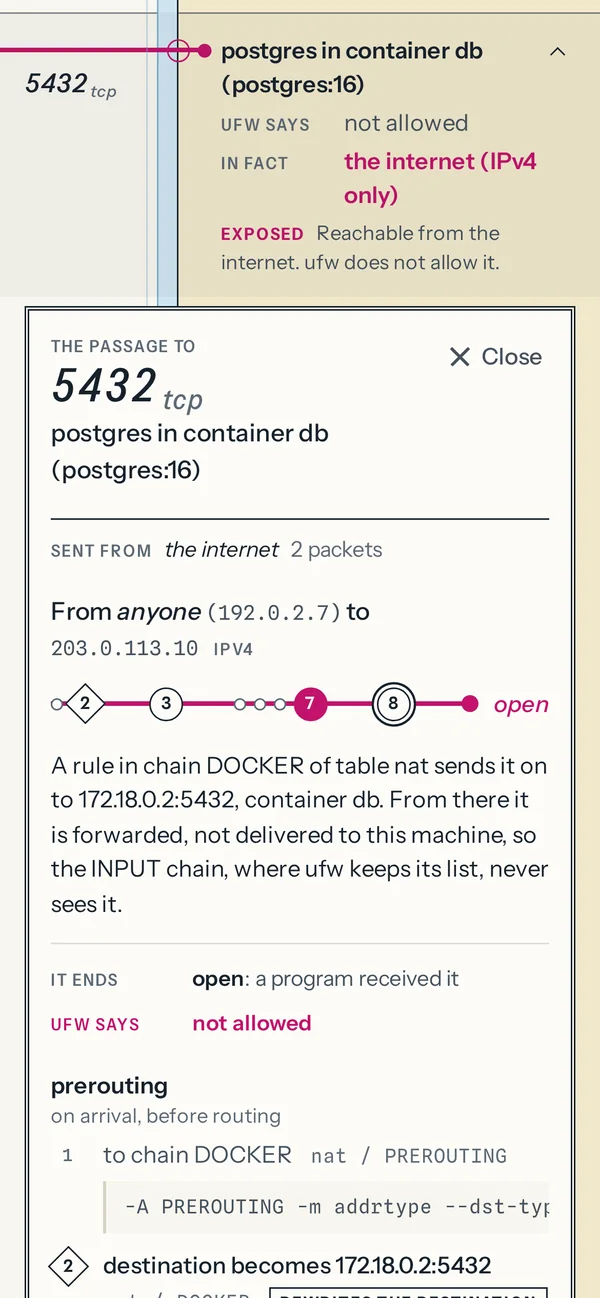
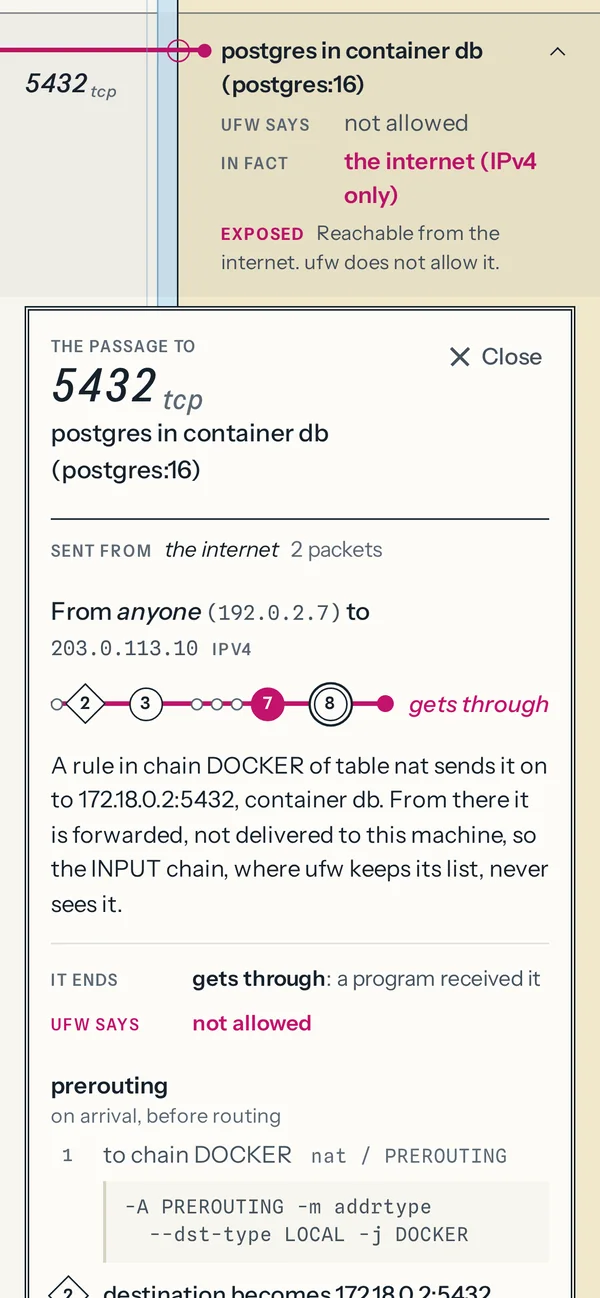
Seaward's pictures from 0.1.1
Claude-Session: https://claude.ai/code/session_01HQfW8pkzqmESaZpf3GNiQv

diff --git a/index.html b/index.html
@@ -67,7 +67,7 @@
         <a class="btn" href="https://github.com/gallowforge" rel="me">GitHub <svg class="i" viewBox="0 0 16 16" aria-hidden="true"><path d="M5 11 11 5M6 5h5v5"/></svg></a>
         <a class="btn" href="assets/Ali-Husain-CV.pdf">CV <svg class="i" viewBox="0 0 16 16" aria-hidden="true"><path d="M8 3v8M4.5 7.5 8 11l3.5-3.5M3 13.5h10"/></svg></a>
       </div>
-      <a class="live" href="https://github.com/gallowforge/ballast/releases/tag/v1.2.3"><i aria-hidden="true"></i><span>Latest release</span> Ballast 1.2.3 “every statement is read the same way”</a>
+      <a class="live" href="https://github.com/gallowforge/seaward/releases/tag/v0.1.1"><i aria-hidden="true"></i><span>Latest release</span> Seaward 0.1.1</a>
     </div>
 
     <nav class="scene" aria-label="The work, layer by layer">
@@ -279,7 +279,7 @@
         <img class="amb" src="assets/img/seaward-glow.webp?v=add169b4" alt="" decoding="async">
         <figure class="win"><img class="in-dark" loading="lazy" decoding="async" src="assets/img/seaward-d.webp?v=182743c9" width="1920" height="1440" alt="Seaward's chart of a sample shop server: seven ports can be reached from outside and ufw allows only four of them. The three container ports are drawn as lanes that cross the firewall's shoreline."><img class="in-light" loading="lazy" decoding="async" src="assets/img/seaward-d-light.webp?v=18a490bc" width="1920" height="1440" alt="Seaward's chart of a sample shop server: seven ports can be reached from outside and ufw allows only four of them. The three container ports are drawn as lanes that cross the firewall's shoreline."></figure>
         <figure class="phone"><img class="in-dark" loading="lazy" decoding="async" src="assets/img/seaward-p.webp?v=d9106410" width="600" height="1298" alt="Seaward on a phone: 7 ports can be reached from outside, ufw allows only 4 of them."><img class="in-light" loading="lazy" decoding="async" src="assets/img/seaward-p-light.webp?v=fd90267c" width="600" height="1298" alt="Seaward on a phone: 7 ports can be reached from outside, ufw allows only 4 of them."></figure>
-        <figure class="phone phone--b"><img class="in-dark" loading="lazy" decoding="async" src="assets/img/seaward-p2.webp?v=6c03ac15" width="600" height="1298" alt="The passage to port 5432 on a phone: one packet followed rule by rule to the rule that lets it through."><img class="in-light" loading="lazy" decoding="async" src="assets/img/seaward-p2-light.webp?v=66329408" width="600" height="1298" alt="The passage to port 5432 on a phone: one packet followed rule by rule to the rule that lets it through."></figure>
+        <figure class="phone phone--b"><img class="in-dark" loading="lazy" decoding="async" src="assets/img/seaward-p2.webp?v=c301c604" width="600" height="1298" alt="The passage to port 5432 on a phone: one packet followed rule by rule to the rule that lets it through."><img class="in-light" loading="lazy" decoding="async" src="assets/img/seaward-p2-light.webp?v=e23ea2a9" width="600" height="1298" alt="The passage to port 5432 on a phone: one packet followed rule by rule to the rule that lets it through."></figure>
       </div>
       <div class="room-foot" data-rise>
         <p class="room-body">A firewall's list is what was asked for; the rules the kernel runs are what the server got. Docker publishes a port with rules of its own, and a database answers the whole internet while ufw still reads deny. Seaward reads the rules that are really loaded, follows a packet through them the way the kernel does, and says for every port who can reach it and which rule decides. It only reads: it changes no rule and puts no packet on the network.</p>

diff --git a/work/seaward/index.html b/work/seaward/index.html
@@ -65,7 +65,7 @@
         <img class="amb" src="assets/img/seaward-glow.webp?v=add169b4" alt="" decoding="async">
         <figure class="win"><img class="in-dark" loading="lazy" decoding="async" src="assets/img/seaward-d.webp?v=182743c9" width="1920" height="1440" alt="Seaward's chart of a sample shop server: seven ports can be reached from outside and ufw allows only four of them. The three container ports are drawn as lanes that cross the firewall's shoreline."><img class="in-light" loading="lazy" decoding="async" src="assets/img/seaward-d-light.webp?v=18a490bc" width="1920" height="1440" alt="Seaward's chart of a sample shop server: seven ports can be reached from outside and ufw allows only four of them. The three container ports are drawn as lanes that cross the firewall's shoreline."></figure>
         <figure class="phone"><img class="in-dark" loading="lazy" decoding="async" src="assets/img/seaward-p.webp?v=d9106410" width="600" height="1298" alt="Seaward on a phone: 7 ports can be reached from outside, ufw allows only 4 of them."><img class="in-light" loading="lazy" decoding="async" src="assets/img/seaward-p-light.webp?v=fd90267c" width="600" height="1298" alt="Seaward on a phone: 7 ports can be reached from outside, ufw allows only 4 of them."></figure>
-        <figure class="phone phone--b"><img class="in-dark" loading="lazy" decoding="async" src="assets/img/seaward-p2.webp?v=6c03ac15" width="600" height="1298" alt="The passage to port 5432 on a phone: one packet followed rule by rule to the rule that lets it through."><img class="in-light" loading="lazy" decoding="async" src="assets/img/seaward-p2-light.webp?v=66329408" width="600" height="1298" alt="The passage to port 5432 on a phone: one packet followed rule by rule to the rule that lets it through."></figure>
+        <figure class="phone phone--b"><img class="in-dark" loading="lazy" decoding="async" src="assets/img/seaward-p2.webp?v=c301c604" width="600" height="1298" alt="The passage to port 5432 on a phone: one packet followed rule by rule to the rule that lets it through."><img class="in-light" loading="lazy" decoding="async" src="assets/img/seaward-p2-light.webp?v=e23ea2a9" width="600" height="1298" alt="The passage to port 5432 on a phone: one packet followed rule by rule to the rule that lets it through."></figure>
       </div>
       <div class="room-foot" data-rise>
         <p class="room-body">A firewall's list is what was asked for; the rules the kernel runs are what the server got. Docker publishes a port with rules of its own, and a database answers the whole internet while ufw still reads deny. Seaward reads the rules that are really loaded, follows a packet through them the way the kernel does, and says for every port who can reach it and which rule decides. It only reads: it changes no rule and puts no packet on the network.</p>
